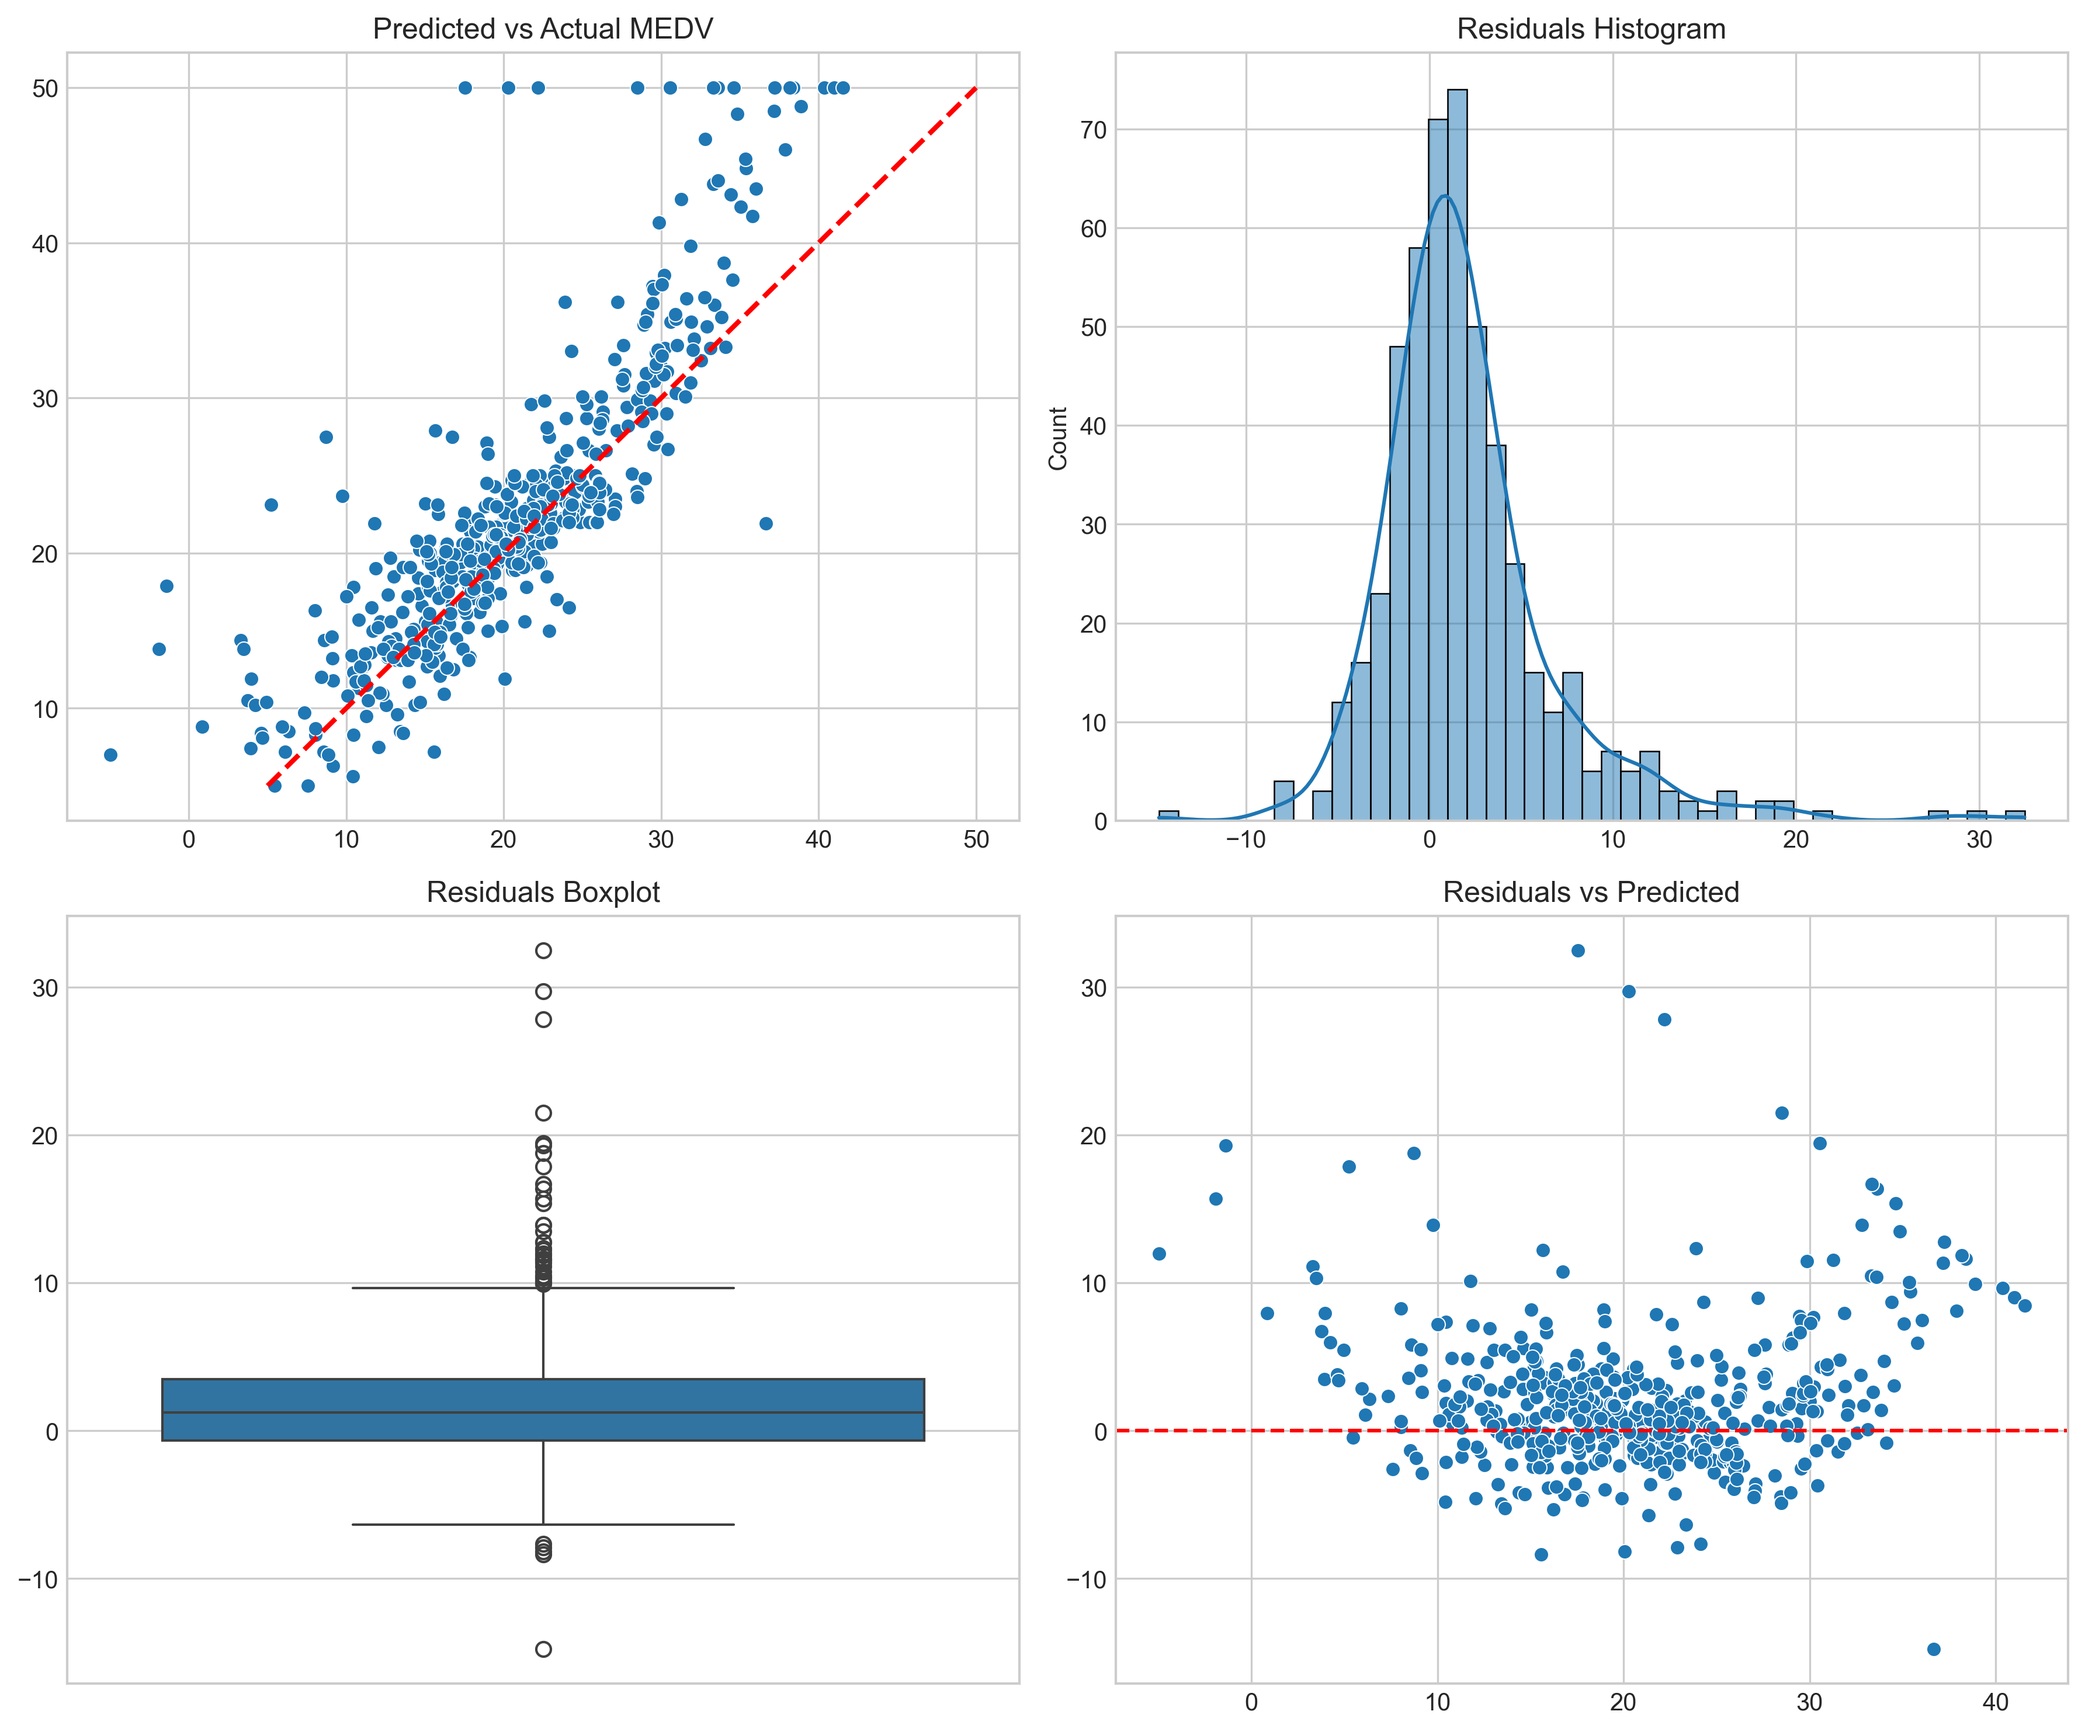
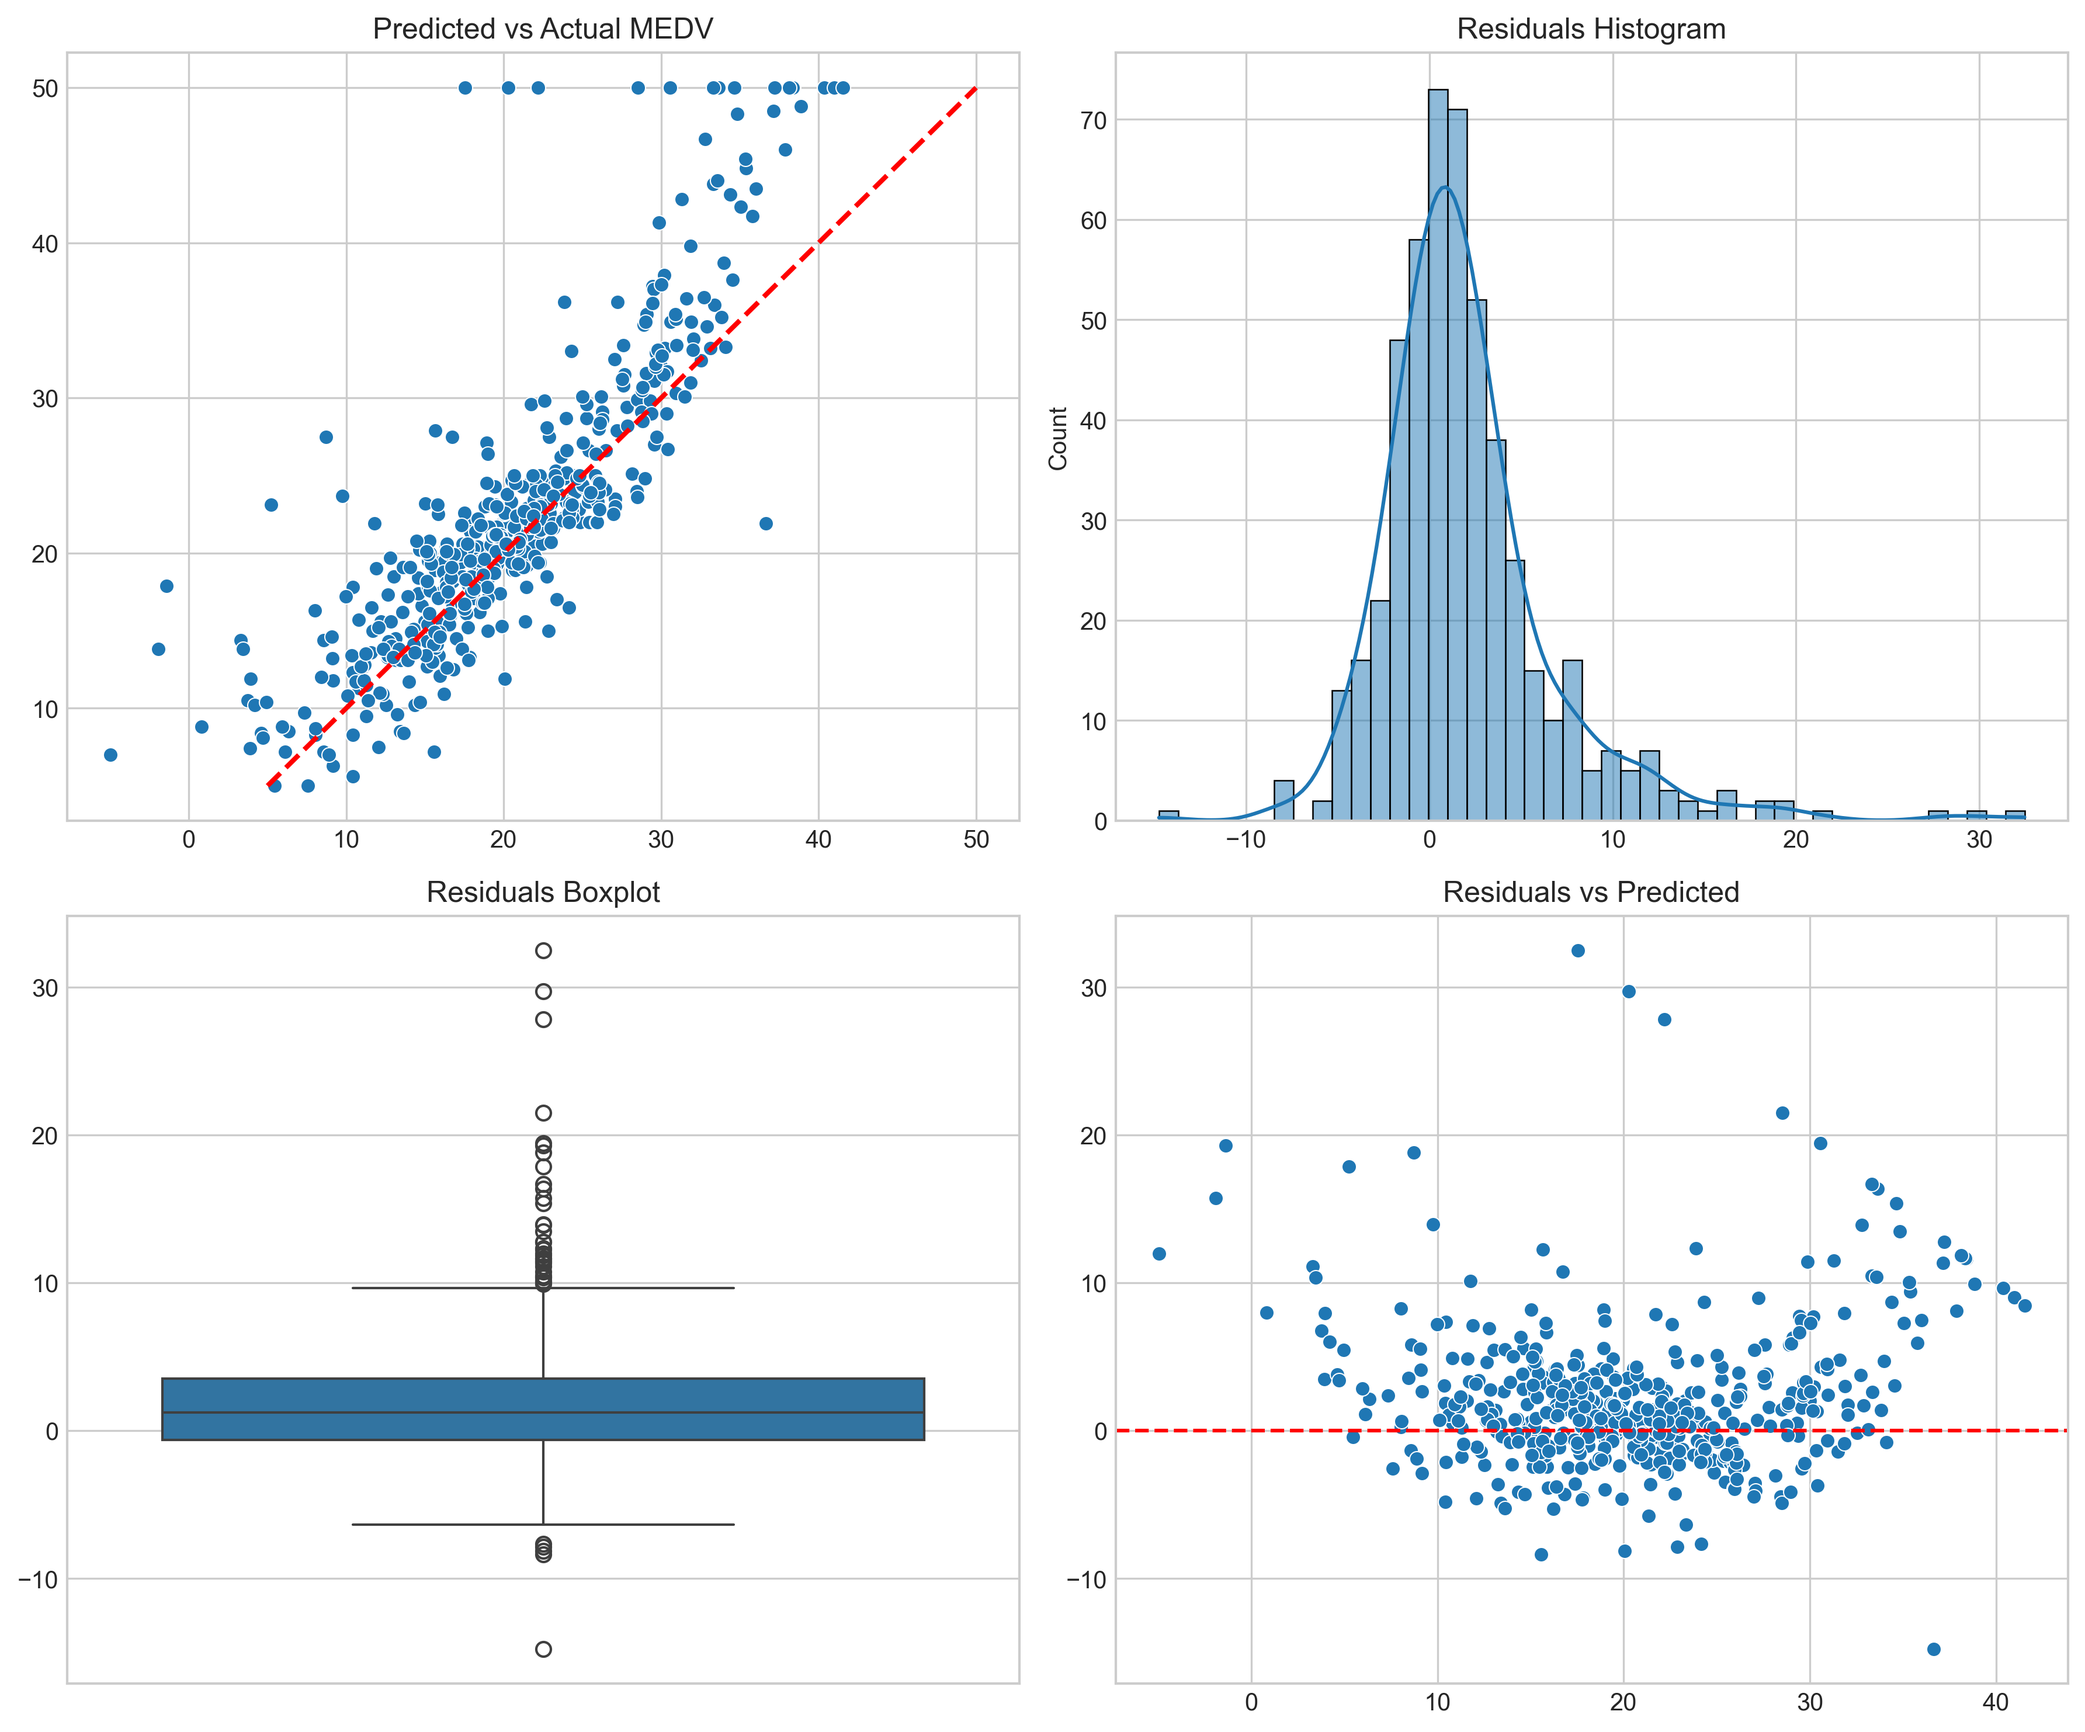
nuthin

diff --git a/rawRun.py b/rawRun.py
@@ -2,6 +2,9 @@ import pandas as pd
 import numpy as np
 import matplotlib.pyplot as plt
 import seaborn as sns
+from sklearn.decomposition import PCA
+from mpl_toolkits.mplot3d import Axes3D
+
 
 column_names = ['CRIM', 'ZN', 'INDUS', 'CHAS', 'NOX', 'RM', 'AGE', 'DIS', 'RAD', 'TAX', 'PTRATIO', 'B', 'LSTAT', 'MEDV']
 data = pd.read_csv("housing.csv", header=None, delimiter=r"\s+", names=column_names)
@@ -81,3 +84,5 @@ axes[1,1].set_title('Residuals vs Predicted')
 plt.tight_layout()
 plt.savefig('gd_diagnostics.png', dpi=300, bbox_inches='tight')
 plt.show()
+
+
